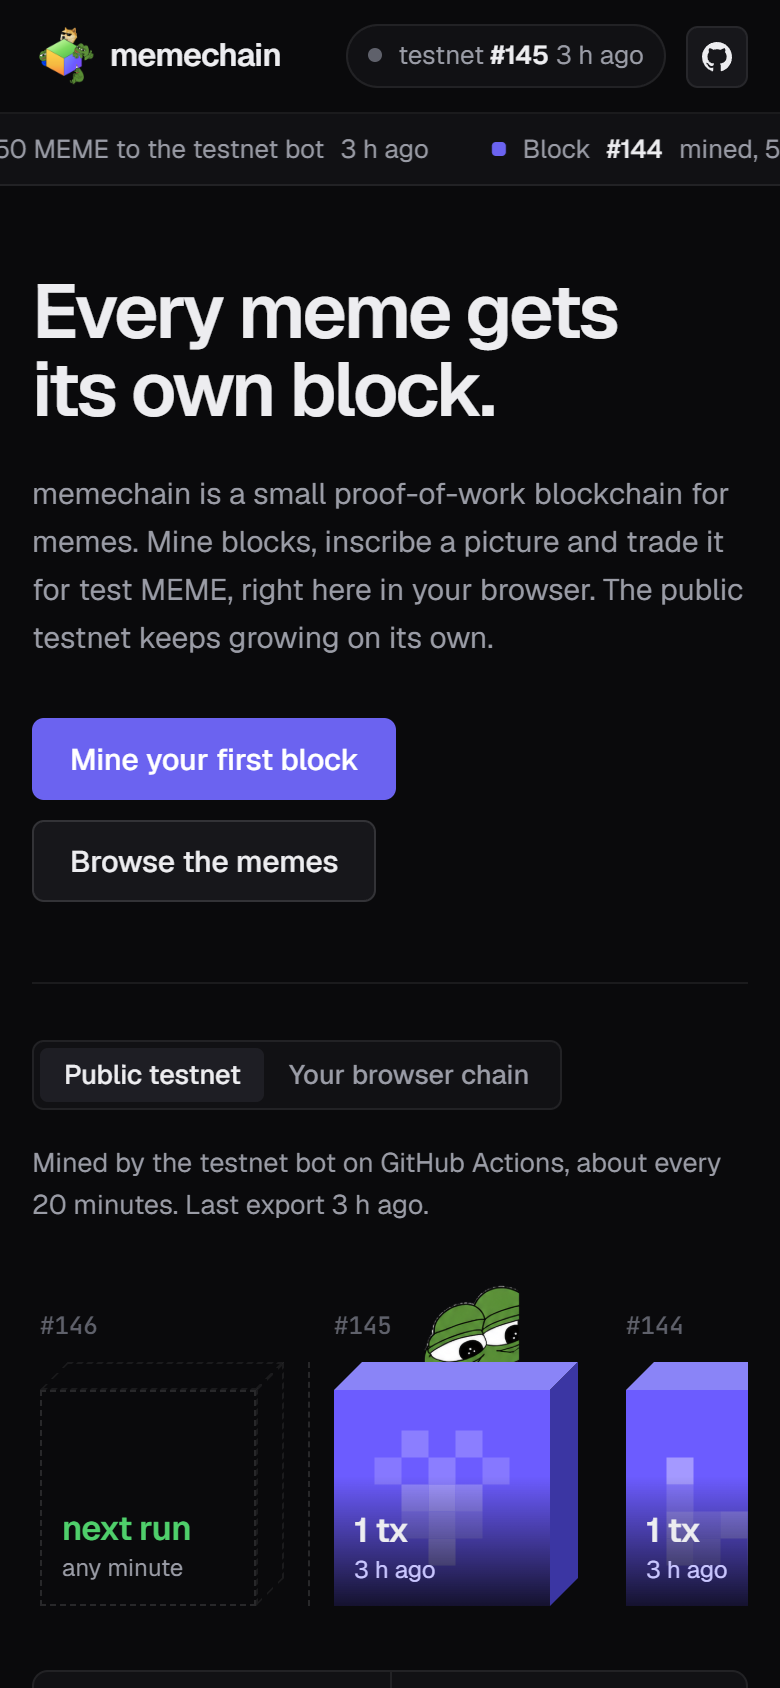
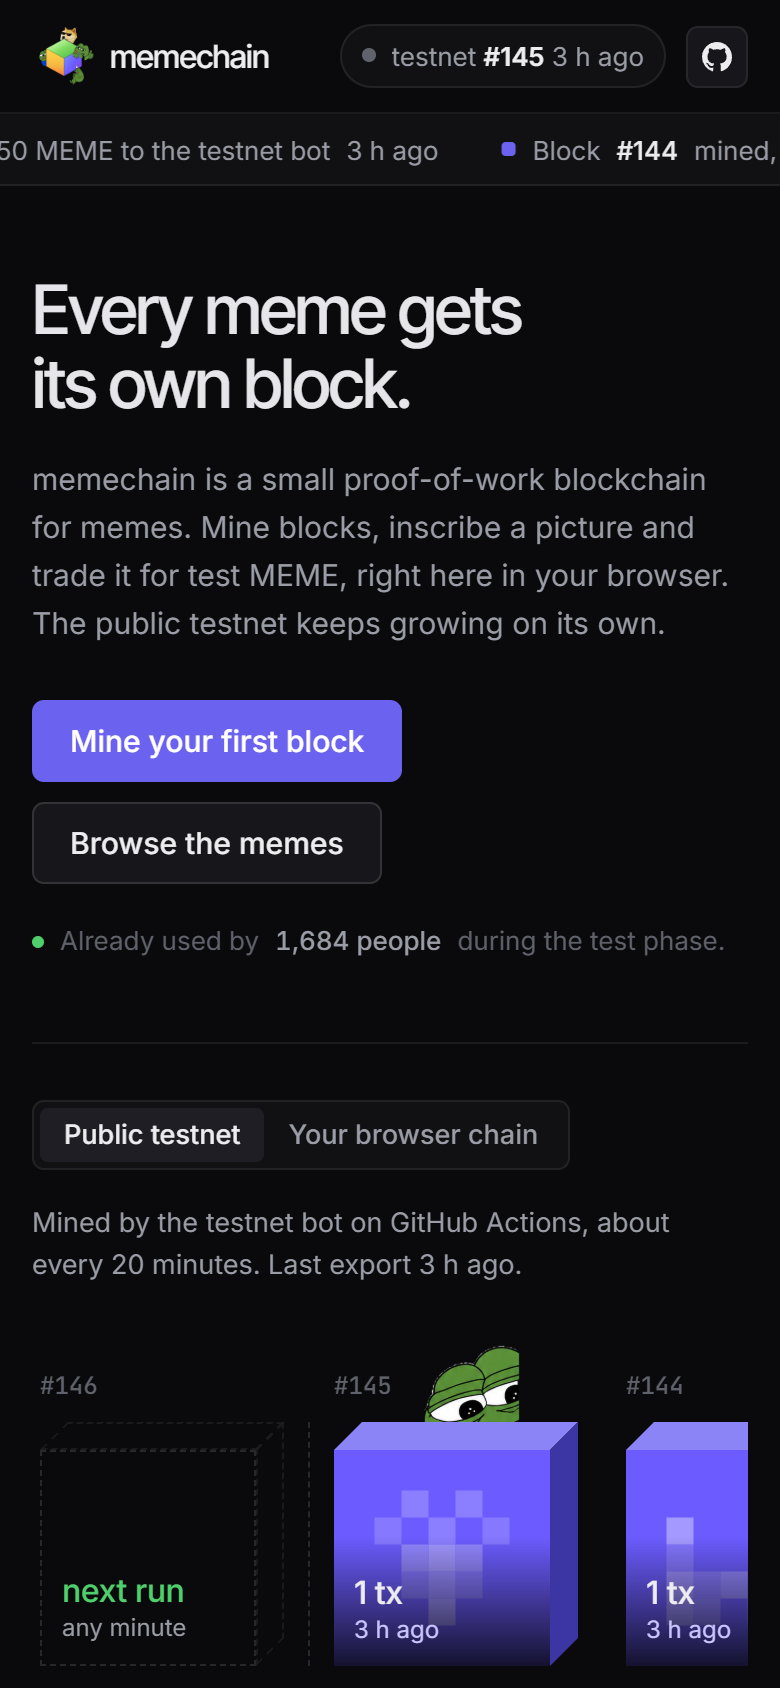
Calmer headlines and the test-phase count
Headlines move from bold Geist to Inter Tight at medium weight and smaller
sizes, body text to Inter. The hero and README state that 1,684 people used
memechain during the test phase. Banner, social preview and screenshots
re-rendered.

diff --git a/docs/style.css b/docs/style.css
@@ -18,8 +18,8 @@
   --block-3: #3b36a3;
   --block-top: #8a84f7;
   --bad: #f05d5d;
-  --display: 'Geist', 'Inter', system-ui, -apple-system, 'Segoe UI', sans-serif;
-  --sans: 'Geist', 'Inter', system-ui, -apple-system, 'Segoe UI', sans-serif;
+  --display: 'Inter Tight', 'Inter', system-ui, -apple-system, 'Segoe UI', sans-serif;
+  --sans: 'Inter', system-ui, -apple-system, 'Segoe UI', sans-serif;
   --mono: 'JetBrains Mono', ui-monospace, Consolas, monospace;
   --r: 8px;
   --r-sm: 6px;
@@ -32,7 +32,8 @@ a { color: var(--text); text-decoration-color: var(--line-2); text-underline-off
 a:hover { text-decoration-color: var(--muted); }
 img { display: block; max-width: 100%; }
 code, pre, .mono { font-family: var(--mono); }
-h1, h2, h3, h4 { font-weight: 600; letter-spacing: -.01em; }
+h1, h2 { font-family: var(--display); font-weight: 500; letter-spacing: -.02em; }
+h3, h4 { font-weight: 500; letter-spacing: -.01em; }
 :focus-visible { outline: 2px solid var(--block); outline-offset: 2px; border-radius: var(--r-sm); }
 .skip { position: absolute; left: -999px; top: 8px; background: var(--block); color: #fff; padding: 8px 12px; border-radius: var(--r-sm); z-index: 50; }
 .skip:focus { left: 8px; }
@@ -43,7 +44,7 @@ h1, h2, h3, h4 { font-weight: 600; letter-spacing: -.01em; }
 .top-in { display: flex; align-items: center; gap: 20px; height: 56px; }
 .brand { display: flex; align-items: center; gap: 9px; text-decoration: none; }
 .brand .logo { width: 36px; height: 36px; display: block; }
-.brand span { font: 600 17px/1 var(--sans); letter-spacing: -.02em; }
+.brand span { font: 500 16px/1 var(--display); letter-spacing: -.02em; }
 .top nav { display: flex; gap: 2px; margin-right: auto; margin-left: 8px; }
 .top nav a { text-decoration: none; color: var(--muted); padding: 6px 10px; border-radius: var(--r-sm); font-size: 14px; font-weight: 500; }
 .top nav a:hover { color: var(--text); background: var(--panel-2); }
@@ -70,9 +71,12 @@ h1, h2, h3, h4 { font-weight: 600; letter-spacing: -.01em; }
 .hero { padding: 72px 0 24px; }
 .hero-top { display: grid; grid-template-columns: minmax(0, 1fr) 380px; gap: 48px; align-items: center; }
 .hero-copy { min-width: 0; }
-.hero h1 { font-size: clamp(38px, 5.2vw, 64px); line-height: 1.02; margin: 0 0 20px; letter-spacing: -.035em; text-wrap: balance; }
-.lede { font-size: clamp(15px, 1.5vw, 17px); color: var(--muted); max-width: 56ch; margin: 0 0 28px; line-height: 1.6; }
+.hero h1 { font-size: clamp(34px, 4.4vw, 54px); line-height: 1.08; margin: 0 0 18px; letter-spacing: -.03em; color: #e6e6ea; text-wrap: balance; }
+.lede { font-size: clamp(15px, 1.5vw, 17px); color: var(--muted); max-width: 56ch; margin: 0 0 26px; line-height: 1.6; }
 .cta { display: flex; gap: 10px; flex-wrap: wrap; }
+.proof { margin: 18px 0 0; font-size: 13px; color: var(--faint); display: flex; align-items: center; gap: 8px; }
+.proof b { color: var(--muted); font-weight: 500; font-variant-numeric: tabular-nums; }
+.proof::before { content: ''; width: 6px; height: 6px; border-radius: 50%; background: var(--pepe); flex: none; }
 
 /* newest memes: three flat tiles, caption underneath */
 .stack { display: grid; grid-template-columns: repeat(3, minmax(0, 1fr)); gap: 10px; align-content: center; }
@@ -113,7 +117,7 @@ h1, h2, h3, h4 { font-weight: 600; letter-spacing: -.01em; }
 .cube .top-f { position: absolute; top: 0; left: 0; width: var(--s); height: var(--d); background: var(--block-top); transform: skewX(-45deg); transform-origin: bottom left; }
 .cube .side-f { position: absolute; top: var(--d); left: var(--s); width: var(--d); height: var(--s); background: var(--block-3); transform: skewY(-45deg); transform-origin: top left; }
 .cube .lbl { display: block; position: absolute; left: 10px; right: 10px; bottom: 9px; z-index: 1; line-height: 1.25; }
-.cube .lbl b { display: block; font: 600 17px/1.1 var(--sans); letter-spacing: -.02em; }
+.cube .lbl b { display: block; font: 500 16px/1.1 var(--sans); letter-spacing: -.015em; }
 .cube .lbl span { font-size: 12px; color: #c9c6ff; }
 .cube .h { position: absolute; top: -24px; left: 0; font: 500 12px/1 var(--mono); color: var(--faint); }
 .cube.meme .face { background: var(--block-2); }
@@ -143,7 +147,7 @@ h1, h2, h3, h4 { font-weight: 600; letter-spacing: -.01em; }
 /* -------------------------------------------------------------- sections */
 .sec { padding: 80px 0 8px; }
 .sec-head { display: flex; align-items: flex-end; justify-content: space-between; gap: 16px; flex-wrap: wrap; margin-bottom: 20px; }
-.sec-head h2 { font-size: clamp(24px, 2.6vw, 32px); line-height: 1.1; margin: 0 0 8px; letter-spacing: -.025em; }
+.sec-head h2 { font-size: clamp(22px, 2.2vw, 27px); line-height: 1.15; margin: 0 0 6px; letter-spacing: -.02em; color: #e6e6ea; }
 .sec-head p { margin: 0; color: var(--muted); max-width: 64ch; font-size: 14.5px; }
 .filters { display: flex; gap: 6px; flex-wrap: wrap; }
 .chip { font: 500 13px/1 var(--sans); color: var(--muted); background: var(--panel); border: 1px solid var(--line); padding: 7px 11px; border-radius: var(--r-sm); cursor: pointer; }
@@ -168,7 +172,7 @@ h1, h2, h3, h4 { font-weight: 600; letter-spacing: -.01em; }
 .mcard.featured .pic { width: 300px; height: 200px; }
 .mcard.featured .pic img { object-position: center 30%; }
 .mcard.featured .body { justify-content: center; gap: 6px; }
-.mcard.featured .cap { font-size: clamp(22px, 2.4vw, 30px); line-height: 1.12; letter-spacing: -.025em; -webkit-line-clamp: 3; }
+.mcard.featured .cap { font: 500 clamp(20px, 2vw, 26px)/1.18 var(--display); letter-spacing: -.02em; -webkit-line-clamp: 3; }
 .mcard.featured .own { font-size: 13px; }
 .mcard.featured .price { margin-top: 6px; }
 .mcard .tag { align-self: flex-start; font-size: 11.5px; font-weight: 500; color: var(--pepe); background: color-mix(in srgb, var(--pepe) 14%, transparent); border: 1px solid color-mix(in srgb, var(--pepe) 30%, transparent); padding: 2px 7px; border-radius: 4px; }
@@ -185,7 +189,7 @@ h1, h2, h3, h4 { font-weight: 600; letter-spacing: -.01em; }
 .step-head { display: grid; grid-template-columns: 28px minmax(0, 1fr) auto; gap: 14px; align-items: center; }
 .num { width: 28px; height: 28px; border-radius: 50%; display: grid; place-items: center; font: 600 13px/1 var(--sans); background: var(--panel-3); color: var(--muted); border: 1px solid var(--line-2); font-variant-numeric: tabular-nums; }
 .step.done .num { background: var(--pepe); color: var(--pepe-ink); border-color: var(--pepe); }
-.step h3 { margin: 0; font-size: 15px; }
+.step h3 { margin: 0; font-size: 14.5px; }
 .hint { margin: 2px 0 0; color: var(--muted); font-size: 13.5px; }
 .ctl { display: flex; gap: 8px; align-items: center; justify-content: flex-end; flex-wrap: wrap; }
 .ctl.row { justify-content: flex-start; margin: 12px 0 0 42px; }

diff --git a/docs/readme/banner.html b/docs/readme/banner.html
@@ -3,7 +3,7 @@
 <head>
 <meta charset="utf-8">
 <title>memechain banner</title>
-<link href="https://fonts.googleapis.com/css2?family=Geist:wght@400;500;600;700&family=JetBrains+Mono:wght@400;500&display=swap" rel="stylesheet">
+<link href="https://fonts.googleapis.com/css2?family=Inter:wght@400;500;600&family=Inter+Tight:wght@500;600&family=JetBrains+Mono:wght@400;500&display=swap" rel="stylesheet">
 <link rel="stylesheet" href="../style.css">
 <style>
   /* Source of docs/readme/banner.png and docs/og.png: python tools/readme_assets.py */
@@ -12,8 +12,8 @@
   .copy { position: absolute; left: 72px; top: 120px; width: 540px; }
   .copy .mark { display: flex; align-items: center; gap: 18px; }
   .copy .mark img { width: 150px; height: 150px; flex: none; margin-left: -12px; }
-  .copy h1 { font: 700 98px/1 var(--display); margin: 0; letter-spacing: -.045em; }
-  .copy p { font: 600 32px/1.15 var(--sans); margin: 26px 0 0; color: var(--text); letter-spacing: -.02em; }
+  .copy h1 { font: 500 96px/1 var(--display); margin: 0; letter-spacing: -.04em; color: #e6e6ea; }
+  .copy p { font: 500 30px/1.15 var(--display); margin: 26px 0 0; color: var(--text); letter-spacing: -.02em; }
   .copy small { display: block; margin-top: 18px; font: 500 20px/1.4 var(--sans); color: var(--muted); }
   .copy .url { position: absolute; top: 400px; font: 500 18px/1 var(--mono); color: var(--pepe); }
   .blocks { position: absolute; right: 70px; top: 0; width: 560px; height: 640px; }
@@ -21,7 +21,7 @@
   .blocks .cube .lbl b { font-size: 26px; }
   .blocks .cube .lbl span { font-size: 15px; }
   .c1 { left: 0; top: 330px; } .c2 { left: 186px; top: 214px; } .c3 { left: 372px; top: 98px; }
-  .cap { position: absolute; left: 10px; right: 10px; top: 10px; z-index: 2; text-align: center; font: 700 22px/1.05 var(--display); text-transform: uppercase; color: #fff;
+  .cap { position: absolute; left: 10px; right: 10px; top: 10px; z-index: 2; text-align: center; font: 600 22px/1.05 var(--display); text-transform: uppercase; color: #fff;
     text-shadow: 2px 2px 0 #000, -2px 2px 0 #000, 2px -2px 0 #000, -2px -2px 0 #000, 0 2px 0 #000, 2px 0 0 #000, 0 -2px 0 #000, -2px 0 0 #000; }
   .ch { position: absolute; z-index: 3; }
   .peek { width: 86px; left: 474px; top: 34px; z-index: 0; }

diff --git a/docs/index.html b/docs/index.html
@@ -17,7 +17,7 @@
 <link rel="apple-touch-icon" href="icons/apple-touch-icon.png">
 <link rel="preconnect" href="https://fonts.googleapis.com">
 <link rel="preconnect" href="https://fonts.gstatic.com" crossorigin>
-<link href="https://fonts.googleapis.com/css2?family=Geist:wght@400;500;600;700&family=JetBrains+Mono:wght@400;500&display=swap" rel="stylesheet">
+<link href="https://fonts.googleapis.com/css2?family=Inter:wght@400;500;600&family=Inter+Tight:wght@500;600&family=JetBrains+Mono:wght@400;500&display=swap" rel="stylesheet">
 <link rel="stylesheet" href="style.css">
 </head>
 <body>
@@ -50,6 +50,7 @@
         <a class="btn primary lg" href="#mine">Mine your first block</a>
         <a class="btn lg" href="#market">Browse the memes</a>
       </div>
+      <p class="proof">Already used by <b>1,684 people</b> during the test phase.</p>
     </div>
     <div class="stack" id="stack" aria-label="Newest memes"></div>
     </div>

diff --git a/tools/git_push.py b/tools/git_push.py
@@ -1,24 +1,26 @@
-"""Push to origin using the token in Githubtoken.txt without ever putting it in a URL, the shell or the log.
+"""Push to origin using a token file without ever putting the token in a URL, the shell or the log.
 
     python tools/git_push.py            # verifies the token's account can push to the remote, then pushes
     python tools/git_push.py --check    # only report account / permissions
 
+Token files, first one that exists wins: MainGithub.txt, then Githubtoken.txt (both gitignored).
 The token is handed to git through a one-shot credential helper on stdin. It is never printed.
 """
 import os, subprocess, sys, requests
 from pathlib import Path
 
 ROOT = Path(__file__).resolve().parents[1]
-TOKEN_FILE = ROOT / "Githubtoken.txt"
+TOKEN_FILES = [ROOT / "MainGithub.txt", ROOT / "Githubtoken.txt"]
 
 if len(sys.argv) > 1 and sys.argv[1] == "--helper":          # invoked by git: print credentials for the remote
-    if sys.argv[2] == "get":
-        print("username=x-access-token"); print("password=" + TOKEN_FILE.read_text(encoding="utf-8").strip())
+    if sys.argv[3] == "get":
+        print("username=x-access-token"); print("password=" + Path(sys.argv[2]).read_text(encoding="utf-8").strip())
     sys.exit(0)
 
-tok = TOKEN_FILE.read_text(encoding="utf-8").strip() if TOKEN_FILE.exists() else ""
+TOKEN_FILE = next((f for f in TOKEN_FILES if f.exists() and f.read_text(encoding="utf-8").strip()), None)
+tok = TOKEN_FILE.read_text(encoding="utf-8").strip() if TOKEN_FILE else ""
 if not tok:
-    print("no Githubtoken.txt"); sys.exit(1)
+    print("no token file (MainGithub.txt or Githubtoken.txt)"); sys.exit(1)
 H = {"Authorization": "Bearer " + tok, "Accept": "application/vnd.github+json"}
 remote = subprocess.run(["git", "remote", "get-url", "origin"], cwd=ROOT, capture_output=True, text=True).stdout.strip()
 slug = remote.replace("https://github.com/", "").removesuffix(".git")
@@ -26,12 +28,12 @@ me = requests.get("https://api.github.com/user", headers=H, timeout=20)
 login = me.json().get("login") if me.ok else None
 repo = requests.get(f"https://api.github.com/repos/{slug}", headers=H, timeout=20)
 perms = repo.json().get("permissions", {}) if repo.ok else {}
-print(f"remote: {remote}\ntoken account: {login or 'invalid token'}\npush permission on {slug}: {perms.get('push', False)}")
+print(f"remote: {remote}\ntoken file: {TOKEN_FILE.name}\ntoken account: {login or 'invalid token'}\npush permission on {slug}: {perms.get('push', False)}")
 if "--check" in sys.argv: sys.exit(0)
 if not perms.get("push"):
     print("BLOCKED: this token cannot push to the existing remote. Not pushing anywhere else."); sys.exit(2)
 
-helper = f"!python \"{Path(__file__).as_posix()}\" --helper"
+helper = f"!python \"{Path(__file__).as_posix()}\" --helper \"{TOKEN_FILE.as_posix()}\""
 r = subprocess.run(["git", "-c", "credential.helper=", "-c", f"credential.helper={helper}", "push", "-u", "origin", "main"],
                    cwd=ROOT, capture_output=True, text=True)
 print((r.stdout + r.stderr).replace(tok, "<token>").strip()[-800:]); sys.exit(r.returncode)

diff --git a/README.md b/README.md
@@ -9,6 +9,7 @@
   <a href="https://github.com/larajeftic/memechain/actions/workflows/testnet.yml"><img alt="Testnet bot" src="https://img.shields.io/github/actions/workflow/status/larajeftic/memechain/testnet.yml?label=testnet%20bot&style=flat-square&color=6c5cff"></a>
   <img alt="Tokens" src="https://img.shields.io/badge/MEME-test%20token%2C%20no%20value-f5b941?style=flat-square">
   <a href="LICENSE"><img alt="License" src="https://img.shields.io/badge/license-MIT-9599c6?style=flat-square"></a>
+  <img alt="Test phase" src="https://img.shields.io/badge/test%20phase-1%2C684%20people-ededf0?style=flat-square&labelColor=111114">
 </p>
 
 <p align="center">
@@ -22,7 +23,8 @@
 memechain is a small blockchain where every meme is an inscription: the picture's SHA-256 goes into a signed
 transaction, a miner puts it into a block, and from then on the meme has one owner who can list it and sell it.
 The same consensus rules run twice: in `node.py` for the public testnet, and in `docs/chain.js` inside your browser,
-where you can mine, inscribe and trade on a chain of your own without installing anything.
+where you can mine, inscribe and trade on a chain of your own without installing anything. 1,684 people used it during
+the test phase.
 
 ## Preview
 
